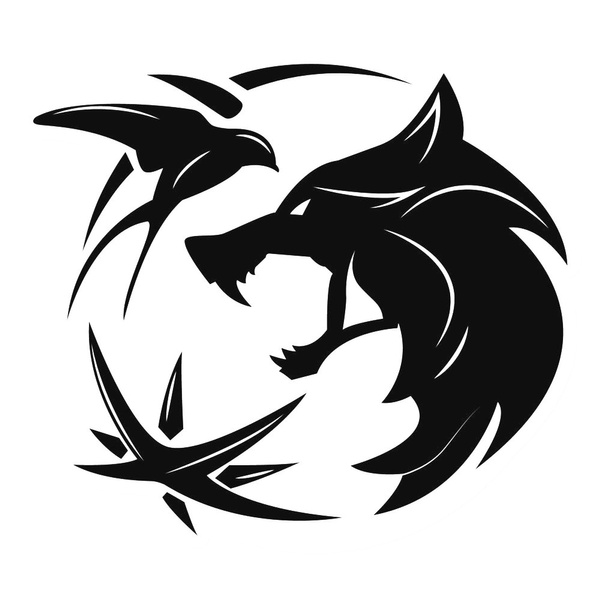
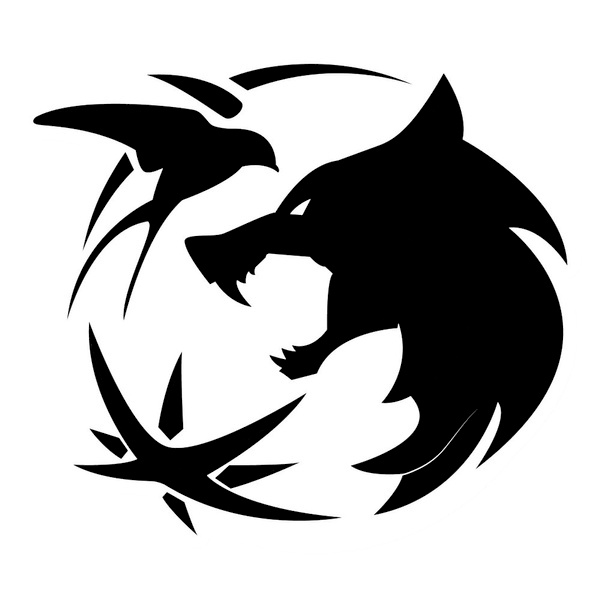
Updated circle_pack to run faster with less random iterations, and resource jpgs to have less contours

diff --git a/src/circle_pack.py b/src/circle_pack.py
@@ -1,3 +1,4 @@
+import cv2
 import numpy as np
 import cv2 as cv
 import graph as gr
@@ -202,9 +203,15 @@ if __name__ == "__main__":
     graph.read_file(fname, delim=';')
     indices = sort_nodes(graph)
     circles = generate_circles(graph, indices)
+    img = cv.imread('../resources/witcherMedallion.jpg')
+    imgray = cv.cvtColor(img, cv.COLOR_BGR2GRAY)
+    ret, thresh = cv.threshold(imgray, 127, 255, 0)
+    im2, contours, hierarchy = cv.findContours(thresh, cv.RETR_TREE, cv.CHAIN_APPROX_SIMPLE)
     polygon = np.array([[0, 0], [0, 400], [400, 400], [400, 0]], dtype='int')
-    new_img, unused = pack_polygon(polygon, circles, max_attempts=20)
-    print(unused)
+    contour = 18
+    #polygon = contours[contour].reshape((contours[contour].shape[0], contours[contour].shape[2]))
+    print(polygon.shape)
+    new_img, unused = pack_polygon(polygon, circles, max_attempts=50, img_width=800, img_height=800)
     plt.subplot(121), plt.imshow(new_img, cmap='gray')
     plt.title('circles'), plt.xticks([]), plt.yticks([])
     plt.show()

diff --git a/src/openCVTest.py b/src/openCVTest.py
@@ -9,12 +9,15 @@ def main():
     ret, thresh = cv.threshold(imgray, 127, 255, 0)
     im2, contours, hierarchy = cv.findContours(thresh, cv.RETR_TREE, cv.CHAIN_APPROX_SIMPLE)
     im3 = np.copy(img)
-    cv.drawContours(im3, contours, -1, (0, 255, 0), 3)
-    plt.subplot(121), plt.imshow(img, cmap='gray')
-    plt.title('Original Image'), plt.xticks([]), plt.yticks([])
-    plt.subplot(122), plt.imshow(im3, cmap='gray')
-    plt.title('Contours'), plt.xticks([]), plt.yticks([])
-    plt.show()
+    for idx, cont in enumerate(contours):
+        cv.drawContours(im3, contours, idx, (0, 255, 0), 3)
+        print(idx)
+        plt.subplot(121), plt.imshow(img, cmap='gray')
+        plt.title('Original Image'), plt.xticks([]), plt.yticks([])
+        plt.subplot(122), plt.imshow(im3, cmap='gray')
+        plt.title('Contours'), plt.xticks([]), plt.yticks([])
+        plt.show()
+        im3 = np.copy(img)
 
 
 if __name__ == "__main__":
